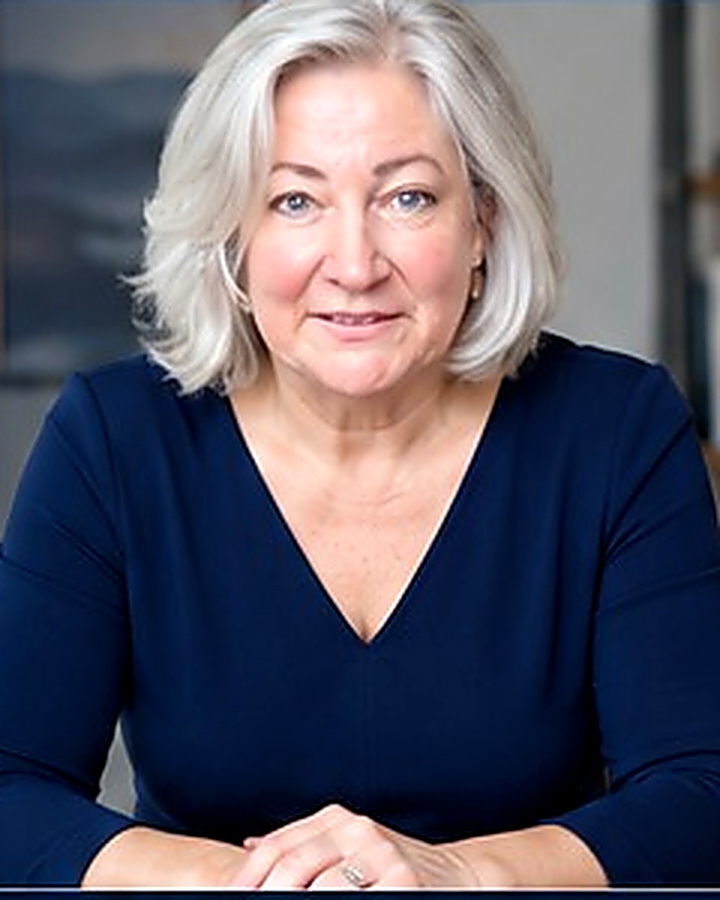
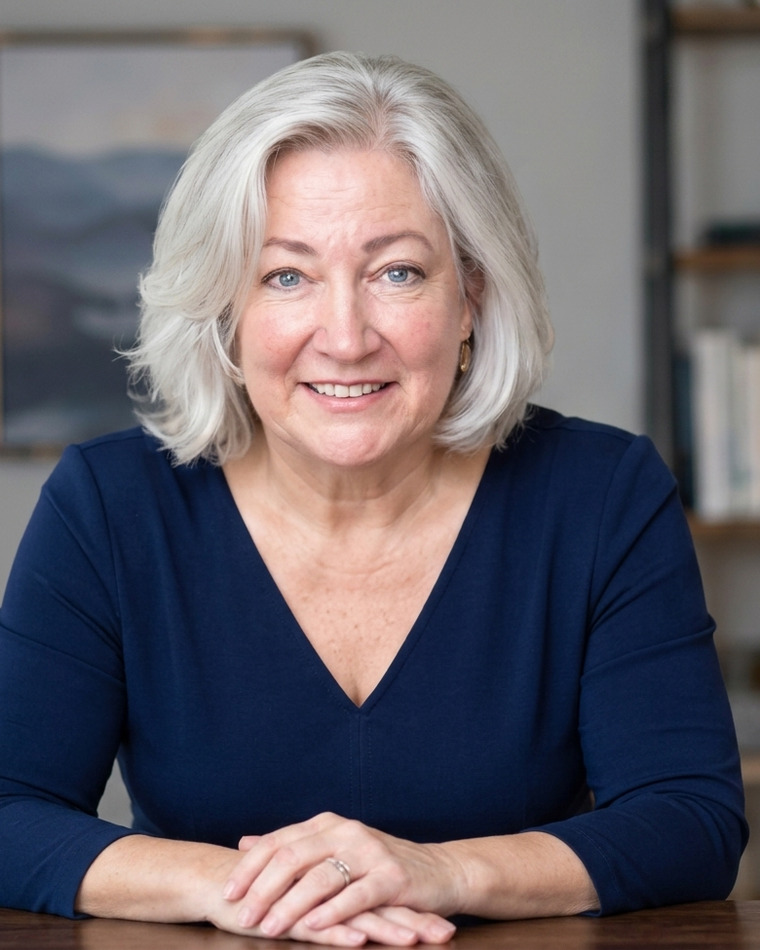
Use the high-resolution original photograph in the hero
Replaces the low-resolution crops taken from the design mockup, in which
the crown of her head was cut off by the mockup's own photo band.

- amy-hero.jpg: full 1094x976 frame, whole head, shelves and table in shot
- amy-portrait.jpg: 4:5 crop of the same original for the About page
- Hero geometry retuned for the photograph's 1.12:1 ratio (was built
  around a 2:1 crop): narrower panel, taller band, balanced vertical
  framing, and a gentler top fade now that there is headroom above her hair
- Mobile hero panel widened to 5:4 to suit the new proportions

diff --git a/src/styles/global.css b/src/styles/global.css
@@ -103,37 +103,37 @@ p { margin: 0 0 1em; }
   background:
     radial-gradient(120% 120% at 78% 40%, #0c2447 0%, transparent 55%),
     linear-gradient(180deg, var(--navy-hero), var(--navy));
-  /* Band height is tuned so the photo panel lands close to the picture's own
-     2:1 ratio — that keeps the bookshelves and lamp in frame instead of
-     zooming hard into her face. */
-  padding: 10.6% 0 2.8%;
+  /* Band height tuned to the photograph's own 1.12:1 ratio so the frame
+     stays close to the original: whole head, shelves and table all in shot. */
+  padding: 11.2% 0 5.4%;
   border-bottom: 3px solid var(--gold);
 }
 /* Warm key light behind the subject so she separates from the dark room. */
 .hero::before {
   content: ''; position: absolute; z-index: 1; pointer-events: none;
   inset: 0;
-  background: radial-gradient(40% 56% at 70% 52%, rgba(247,179,36,.16), transparent 64%);
+  background: radial-gradient(38% 54% at 76% 50%, rgba(247,179,36,.16), transparent 64%);
 }
 .hero__photo {
-  position: absolute; right: 0; top: clamp(70px, 8.4vw, 106px); bottom: 0; width: 57%;
-  background-size: cover; background-position: 50% 0%;
+  position: absolute; right: 0; top: clamp(58px, 6.6vw, 84px); bottom: 0; width: 46%;
+  background-size: cover; background-position: 50% 42%;
   /* Feathered on the left and top rather than dimmed: she keeps full
      brightness and reads as a foreground subject emerging from the room,
-     instead of flat wallpaper behind a navy wash. */
+     instead of flat wallpaper behind a navy wash. The original has headroom
+     above her hair, so the top fade can be gentle again. */
   -webkit-mask-image:
     linear-gradient(90deg, transparent 0%, rgba(0,0,0,.2) 7%, rgba(0,0,0,.78) 19%, #000 31%),
-    linear-gradient(180deg, transparent 0%, rgba(0,0,0,.5) 7%, #000 17%);
+    linear-gradient(180deg, transparent 0%, rgba(0,0,0,.6) 2%, #000 5%);
   -webkit-mask-composite: source-in;
   mask-image:
     linear-gradient(90deg, transparent 0%, rgba(0,0,0,.2) 7%, rgba(0,0,0,.78) 19%, #000 31%),
-    linear-gradient(180deg, transparent 0%, #000 1.6%);
+    linear-gradient(180deg, transparent 0%, rgba(0,0,0,.6) 2%, #000 5%);
   mask-composite: intersect;
 }
 /* Vignette centred on Amy — darkens the room's edges so she steps forward. */
 .hero__photo::before {
   content: ''; position: absolute; inset: 0; z-index: 1;
-  background: radial-gradient(70% 86% at 45% 54%, transparent 46%, rgba(0,17,37,.36) 100%);
+  background: radial-gradient(72% 84% at 50% 48%, transparent 48%, rgba(0,17,37,.34) 100%);
 }
 /* Grounds the photo into the gold rule at the foot of the band. */
 .hero__photo::after {
@@ -588,8 +588,8 @@ html, body { max-width: 100%; overflow-x: hidden; }
   .hero .btn { width: 100%; text-align: center; padding: 15px 20px; }
   .hero__photo {
     order: 1; position: static; width: 100%;
-    aspect-ratio: 4 / 3; opacity: 1;
-    background-position: 50% 8%;
+    aspect-ratio: 5 / 4; opacity: 1;
+    background-position: 50% 10%;
     /* Fades into the navy that carries the headline below it. */
     -webkit-mask-image: linear-gradient(180deg, #000 0%, #000 62%, transparent 99%);
     mask-image: linear-gradient(180deg, #000 0%, #000 62%, transparent 99%);
@@ -659,7 +659,7 @@ html, body { max-width: 100%; overflow-x: hidden; }
 
 @media (max-width: 560px) {
   .wrap { padding: 0 18px; }
-  .hero__photo { aspect-ratio: 4 / 3; }
+  .hero__photo { aspect-ratio: 1 / 1; }
   .stats-grid { row-gap: 20px; }
   .testi__by { align-items: flex-start; }
   .testi__role { font-size: .74rem; }
